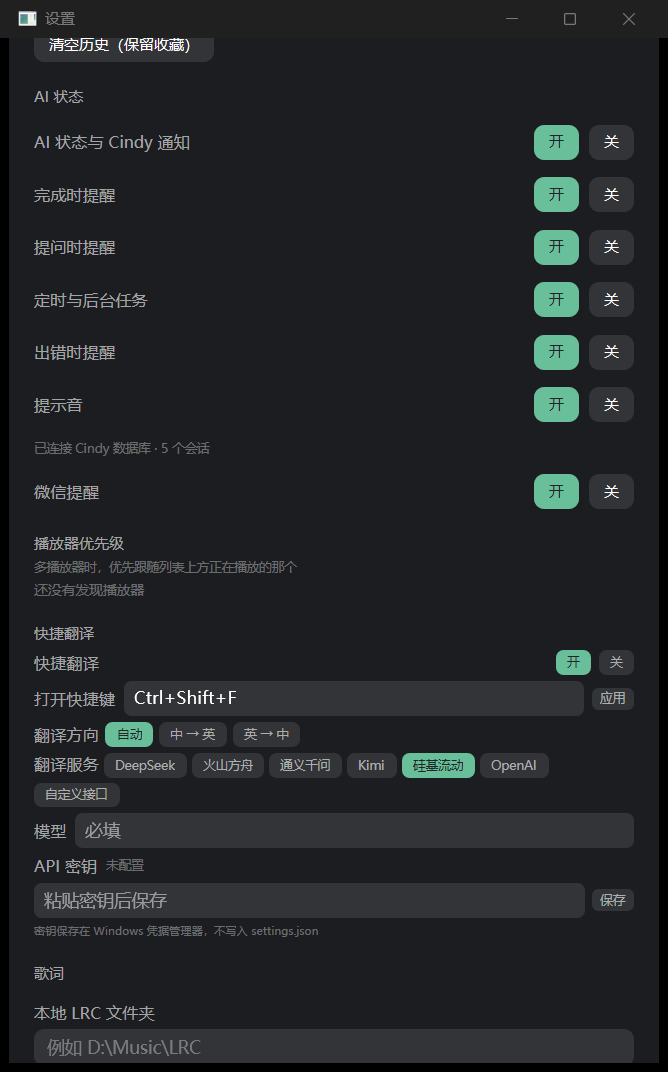
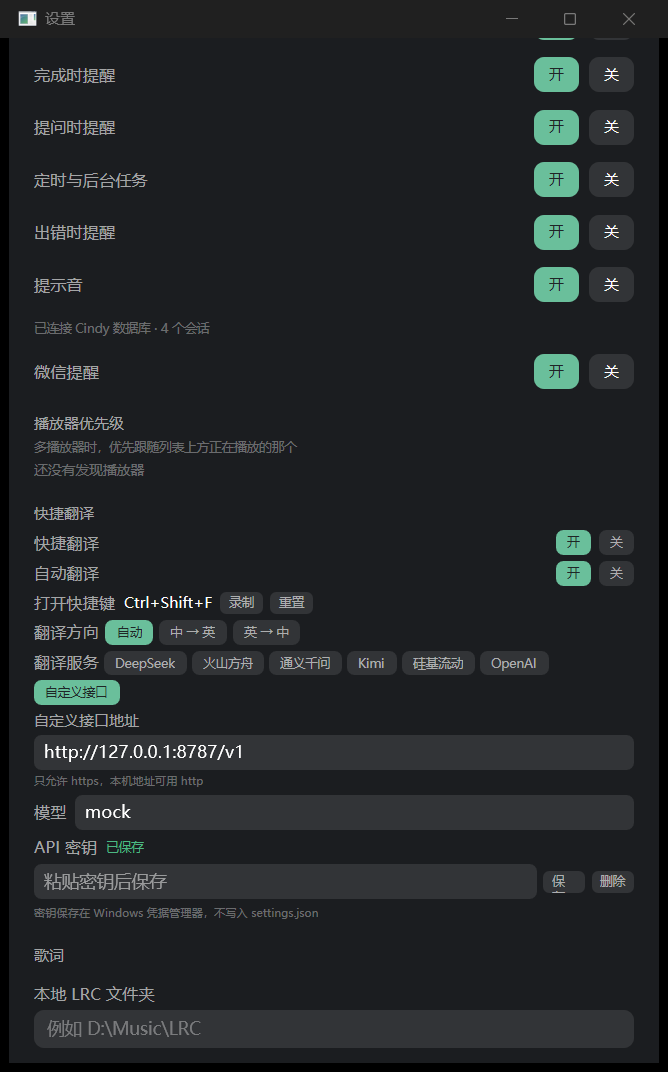
docs(nsh): update translation parity for island page and recording

diff --git a/docs/architecture/nsh-translation.md b/docs/architecture/nsh-translation.md
@@ -4,9 +4,9 @@
 
 | 能力 | Tauri 现版 | NSH 现状 | 结论 |
 |---|---|---|---|
-| 入口 | 主岛翻译按钮、全局快捷键、可切到岛内页面 | 展开岛头部“翻译”按钮 + 全局快捷键；始终打开独立窗口 | 保留窗口入口；岛内页面暂不做 |
+| 入口 | 主岛翻译按钮、全局快捷键、可切到岛内页面 | 展开岛头部“剪贴板 / 翻译”页签 + 全局快捷键；页签打开岛内页，快捷键打开独立窗口 | 对齐 |
 | 窗口 | 480×640，无边框、透明、可调整、始终置顶、跳过任务栏，首次按鼠标所在显示器居中 | NSH 独立窗口 480×640，无边框、透明、可调整、AboveDock、跳过任务栏，居中并恢复上次位置 | 对齐 |
-| 快捷键 | 默认 Ctrl+Shift+F，可改；关闭翻译时注销 | Win32 RegisterHotKey 独立消息线程；默认 Ctrl+Shift+F，可在设置里输入并应用；关闭时注销 | 对齐；录制式改键改为文本输入 |
+| 快捷键 | 默认 Ctrl+Shift+F，可改；关闭翻译时注销 | Win32 RegisterHotKey 独立消息线程；设置里点“录制”后按组合键即写入，Esc 取消；被岛屿固定快捷键占用时拒绝并提示；有重置按钮 | 对齐（录制 + 冲突 + 重置） |
 | 方向 | auto / zh-en / en-zh；auto 按中文字符与拉丁词比例判断 | 同左，逻辑直接移植 direction.rs | 对齐 |
 | 剪贴板 | 打开时填充空输入；Tab/按钮从剪贴板粘贴 | 打开时自动填充空输入；按钮从剪贴板粘贴 | 对齐 |
 | 复制译文 | 复制按钮，显示“已复制” | 同左，使用 arboard | 对齐 |
@@ -16,20 +16,22 @@
 | 密钥 | Windows 凭据管理器，服务 com.focusd.island.translation，按服务 id 分条目 | Win32 CredRead/CredWrite/CredDelete，target 为 provider.com.focusd.island.translation，与 keyring 旧条目同名，无需复制 | 对齐 |
 | 旧设置迁移 | localStorage focusd-island-translation-settings | 首次启动从旧 WebView2 LevelDB 只读副本导入，写入 settings.json；旧 island settings 的 translationEnabled 一并导入 | 已实现；本机旧值 provider=siliconflow、无模型 |
 | 旧密钥迁移 | keyring 条目 | 直接读取同名旧条目；读不到就显示“未配置 API 密钥，去设置” | 已实现 |
-| 自动翻译 | 停止输入 500ms 后自动提交 | 未实现，保留手动 Enter/按钮 | 差异，后续打磨 |
-| 岛内翻译页 | 可把快捷键目标设为岛内页面 | 只做独立窗口 | 差异，按本任务范围 |
+| 自动翻译 | 停止输入 500ms 后自动提交，可开关，默认关 | 同一套 500ms 防抖；设置里开关，默认关；窗口与岛内页共用 | 对齐 |
+| 岛内翻译页 | 方向、原文、译文、粘贴/清空/复制/翻译 | 展开岛“翻译”页签：方向栏、原文、译文、粘贴/清空/复制/翻译，和窗口共用状态与设置 | 对齐 |
 
 ## 实现
 
 - 核心：nsh/src/translation/{mod,direction,provider,secret,hotkey}.rs。
-- 窗口与设置：nsh/src/translation_ui.rs；展开岛头部“翻译”按钮打开窗口；设置窗口在最下方新增“快捷翻译”分组。
+- 窗口与设置：nsh/src/translation_ui.rs；展开岛“翻译”页签和独立窗口共用状态；设置窗口新增“快捷翻译”分组。
+- 自动翻译：输入停止 500ms 后提交，手动提交过的同一文本不重复；方向/Provider/模型改变后允许重新自动提交。
+- 快捷键录制：设置行内的只读输入接收按键，组装标签后经 hotkey::set_shortcut 注册；Ctrl+Shift+I/O/M/T 被视为岛屿占用并提示，重置回 Ctrl+Shift+F。
 - 凭据：secret.rs 的 target 生成与 keyring 的 Windows store 一致（user + "." + service），旧 Key 可直接读取；不写日志、不写 settings.json。
 - 请求：reqwest，30s 超时；UI 在 blocking 任务里运行私有 tokio runtime，结果用 channel 回传，不阻塞 NSH 引擎线程。
 - 设置：settings.json 增加 translation_enabled、translation_shortcut、translation_direction、translation_provider、translation_custom_base_url、translation_models。
 
 ## 验收
 
-- cargo test --lib --offline：64 passed / 0 failed / 8 ignored。
+- cargo test --lib --offline：66 passed / 0 failed / 8 ignored。
 - mock：node nsh/tests/mock-openai.mjs（127.0.0.1:8787）。
   - translation::tests::mock_provider_translates_both_ways 通过：中文自动到英文、英文自动到中文。
   - translation::tests::mock_provider_reports_401_and_timeout 通过：401 含 HTTP 401；300ms 超时返回错误。
@@ -38,14 +40,13 @@
   - docs/assets/nsh-translation/2026-11-24/zh-to-en.png：剪贴板“你好”，auto 方向，结果 Hello from mock。
   - docs/assets/nsh-translation/2026-11-24/en-to-zh.png：剪贴板 Hello，结果“你好，来自 mock”。
   - docs/assets/nsh-translation/2026-11-24/no-key.png：未配置 Key 的引导态。
-  - docs/assets/nsh-translation/2026-11-24/settings.png：设置里的快捷翻译、方向、7 家服务、模型、密钥与快捷键。
-- 快捷键：向快捷键线程投递 WM_HOTKEY 后翻译窗口正常打开；验收时桌面锁屏，未做物理按键。
+  - docs/assets/nsh-translation/2026-11-24/island-auto.png：岛内翻译页，剪贴板“你好”在自动翻译开启时直接得到 Hello from mock。
+  - docs/assets/nsh-translation/2026-11-24/settings.png：设置里的自动翻译开关、快捷键录制/重置、方向、7 家服务、模型与密钥。
+- 快捷键：向快捷键线程投递 WM_HOTKEY 后翻译窗口正常打开；录制按键的标签转换与宿主冲突有单测。验收时桌面锁屏，录制按钮的真实点击未完成。
 - 旧 Key：旧环境没有 com.focusd.island.translation 条目；测试用 custom 临时 Key 验证 target 名为 custom.com.focusd.island.translation，随后已删除。因此没有真实 Provider 请求，只报 mock 结果。
 - 旧设置：只读 LevelDB 中读到 “Ctrl+Shift+F / auto / siliconflow / 无模型”，导入逻辑已运行并写 legacy-translation-settings-imported.flag。
 
 ## 遗留
 
-- 自动翻译（停止输入后自动提交）未做。
-- 岛内翻译页未做，快捷键只开独立窗口。
-- 快捷键改键目前是文本输入 + 应用，不是按键录制。
 - 真实 Provider 请求需用户配置 Key，本机未配置。
+- 验收桌面锁屏，快捷键录制的真实按键未人工复核；单测覆盖标签转换与 Ctrl+Shift+I/O/M/T 冲突。

diff --git a/nsh/README.md b/nsh/README.md
@@ -81,11 +81,13 @@ or run `nsh/host/target/debug/focusd-island-host.exe` after a build.
 - Notification sounds: the three thumb-piano WAVs are copied to
   nsh/assets/sounds, scaled to 0.7 in memory and played with PlaySoundW; the
   settings page has a master switch.
-- Translation is a separate 480×640 always-on-top window: Ctrl+Shift+F or
-  the island's 翻译 button opens it, the clipboard fills an empty source, and
-  seven OpenAI-compatible providers are supported. API keys stay in Windows
-  Credential Manager. The quick launcher and the file shelf are still pending.
-  See docs/architecture/nsh-translation.md.
+- Translation runs in the expanded island's 翻译 page and in a separate
+  480×640 always-on-top window; Ctrl+Shift+F or the page tab opens it. The
+  clipboard fills an empty source, 500 ms auto-translate is optional, and seven
+  OpenAI-compatible providers are supported. Shortcuts are recorded in Settings
+  with conflict and reset handling; API keys stay in Windows Credential Manager.
+  The quick launcher and the file shelf are still pending. See
+  docs/architecture/nsh-translation.md.
 - Lyrics come from a local .lrc folder, LRCLIB, Kugou (KRC word times and a
   translation when the source has one) and NetEase. Answers and recent misses
   are cached in APPDATA/com.focusd.island.nsh/lyrics-cache; the expanded page

diff --git a/docs/architecture/nsh-media-and-utilities.md b/docs/architecture/nsh-media-and-utilities.md
@@ -35,11 +35,12 @@
 
 ## 翻译（已完成，2026-11-24）
 
-独立翻译窗口（480×640、无边框、透明、可调整、始终置顶、跳过任务栏），展开岛头部“翻译”按钮和全局快捷键 Ctrl+Shift+F 打开。
+独立翻译窗口（480×640、无边框、透明、可调整、始终置顶、跳过任务栏），展开岛“翻译”页签和全局快捷键 Ctrl+Shift+F 打开；岛内页与窗口共用状态。
 
 - 方向：auto / zh-en / en-zh，auto 按中文与拉丁词比例判断。
-- 输入：打开时从剪贴板填充空输入，有粘贴/清空；5000 字符上限。
+- 输入：打开时从剪贴板填充空输入，有粘贴/清空；5000 字符上限；可开启停止输入 500ms 自动翻译（默认关）。
 - 结果：复制、已复制状态；错误、缺 Key、超时都有提示，重试复用提交。
+- 快捷键：设置里点“录制”后按组合键写入，Esc 取消，Ctrl+Shift+I/O/M/T 冲突提示，支持重置。
 - Provider：DeepSeek、火山方舟、通义千问、Kimi、硅基流动、OpenAI、自定义 OpenAI 兼容；base_url/model 规则照 Tauri。
 - 密钥：Windows 凭据管理器，target 与旧 keyring 条目一致，旧 Key 可直接读取。
 - 旧设置：从旧 WebView2 LevelDB 只读副本导入 provider/model/方向/快捷键/开关。

diff --git a/docs/architecture/nsh-settings-map.md b/docs/architecture/nsh-settings-map.md
@@ -50,7 +50,7 @@
 | `agent*` | AI 状态迁移时再接 |
 | `music*`（播放器优先级） | 已接入：settings.json 的 music_sources 存 id/label 顺序；其余 music* 仍未接 |
 | `shelf*` | 文件中转迁移时再接 |
-| `translation*` | 已接入：provider/model/方向/快捷键/开关从旧 LevelDB 导入并写入 settings.json；Key 仍在 Windows 凭据管理器 |
+| `translation*` | 已接入：provider/model/方向/快捷键/开关/自动翻译从旧 LevelDB 导入并写入 settings.json；Key 仍在 Windows 凭据管理器 |
 | `mail*`、`battery*`、`game*` | 对应功能迁移时再接 |
 | `showTitle`、`showCollapsedText`、`collapsedLayout`、`collapsedShowCover`、`expandTrigger`、`hover*`、`autoTuck*`、`autoCollapse*`、`minimizeAction`、`tuckedHoverAction`、`revealOnMessage` | 岛屿行为迁移时再接；当前宿主只提供手动贴边/展开 |
 
